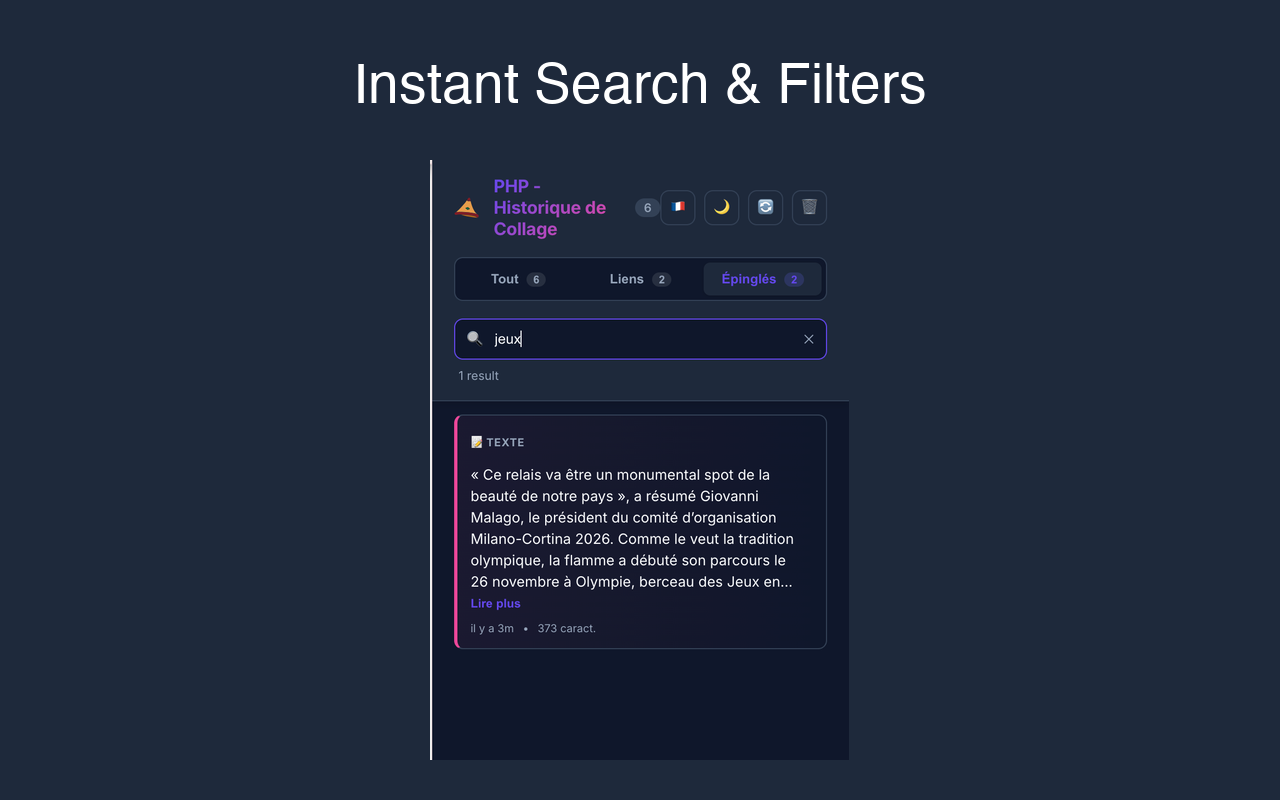
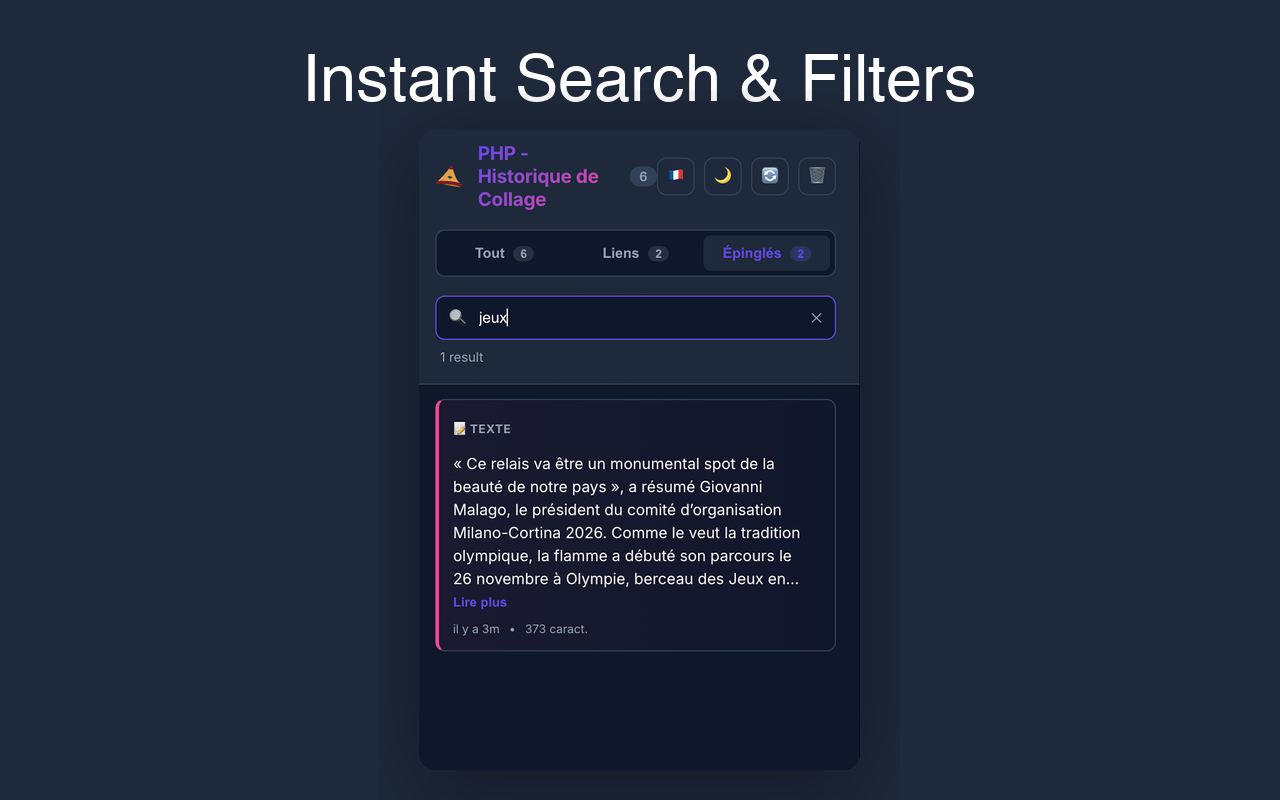
docs: regenerate search slide with user edit

diff --git a/store_assets/generate_slides.py b/store_assets/generate_slides.py
@@ -5,9 +5,9 @@ import os
 CANVAS_SIZE = (1280, 800)
 BG_COLOR = (30, 41, 59) # #1e293b
 TEXT_COLOR = (255, 255, 255)
-OFFSET_TOP_TEXT = 60
-OFFSET_TOP_IMG = 160
-IMG_Target_HEIGHT = 600
+OFFSET_TOP_TEXT = 50
+OFFSET_TOP_IMG = 130
+IMG_Target_HEIGHT = 640 # Increased from 600
 
 # Try to load a nice system font
 FONT_PATH = "/System/Library/Fonts/Helvetica.ttc"
@@ -15,7 +15,7 @@ if not os.path.exists(FONT_PATH):
     FONT_PATH = "/System/Library/Fonts/Supplemental/Arial.ttf"
 
 try:
-    font = ImageFont.truetype(FONT_PATH, 55, index=0) # Index 0 usually fits
+    font = ImageFont.truetype(FONT_PATH, 65, index=0) # Increased font size
 except:
     font = ImageFont.load_default() # Fallback
 
@@ -37,6 +37,57 @@ SLIDES = [
     }
 ]
 
+def add_corners(im, rad):
+    circle = Image.new('L', (rad * 2, rad * 2), 0)
+    draw = ImageDraw.Draw(circle)
+    draw.ellipse((0, 0, rad * 2 - 1, rad * 2 - 1), fill=255)
+    
+    alpha = Image.new('L', im.size, 255)
+    w, h = im.size
+    
+    # Handle if image already has alpha
+    if im.mode == 'RGBA':
+        alpha = im.split()[3]
+    
+    # Create mask for corners
+    mask = Image.new('L', (w, h), 255)
+    mask.paste(circle.crop((0, 0, rad, rad)), (0, 0))
+    mask.paste(circle.crop((0, rad, rad, rad * 2)), (0, h - rad))
+    mask.paste(circle.crop((rad, 0, rad * 2, rad)), (w - rad, 0))
+    mask.paste(circle.crop((rad, rad, rad * 2, rad * 2)), (w - rad, h - rad))
+    
+    # Apply mask
+    im.putalpha(mask)
+    return im
+
+def add_shadow(im, blur_radius=40, shadow_color=(0, 0, 0, 100), offset=(0, 15)):
+    from PIL import ImageFilter
+    
+    w, h = im.size
+    padding = blur_radius * 2
+    
+    # Shadow canvas
+    shadow_w = w + padding
+    shadow_h = h + padding
+    shadow = Image.new('RGBA', (shadow_w, shadow_h), (0,0,0,0))
+    draw = ImageDraw.Draw(shadow)
+    
+    # Draw shadow rect
+    shadow_rect = (
+        padding // 2 + offset[0],
+        padding // 2 + offset[1],
+        padding // 2 + offset[0] + w,
+        padding // 2 + offset[1] + h
+    )
+    
+    draw.rectangle(shadow_rect, fill=shadow_color, outline=None)
+    shadow = shadow.filter(ImageFilter.GaussianBlur(blur_radius))
+    
+    # Paste original image
+    shadow.paste(im, (padding // 2, padding // 2), im)
+    
+    return shadow
+
 def create_slide(slide_config):
     # 1. Create Canvas
     img = Image.new('RGB', CANVAS_SIZE, color=BG_COLOR)
@@ -44,7 +95,6 @@ def create_slide(slide_config):
 
     # 2. Draw Title
     title = slide_config["title"]
-    # center text
     try:
         text_bbox = draw.textbbox((0, 0), title, font=font)
         text_w = text_bbox[2] - text_bbox[0]
@@ -57,26 +107,45 @@ def create_slide(slide_config):
         draw.text((text_x, OFFSET_TOP_TEXT), title, font=font, fill=TEXT_COLOR)
 
 
-    # 3. Load and Resize Source Screenshot
+    # 3. Load and Process Source Screenshot
     try:
         source_path = os.path.join("store_assets", slide_config["source"])
-        if not os.path.exists(source_path):
-             # Try alternate name for links if needed
-             if slide_config["source"] == "links.png" and not os.path.exists(source_path):
-                 source_path = os.path.join("store_assets", "liens.png")
+        src_img = Image.open(source_path).convert("RGBA")
         
-        src_img = Image.open(source_path)
-        
-        # Calculate aspect ratio
+        # Resize
         aspect = src_img.width / src_img.height
         new_w = int(IMG_Target_HEIGHT * aspect)
         new_h = IMG_Target_HEIGHT
         
         src_img_resized = src_img.resize((new_w, new_h), Image.Resampling.LANCZOS)
         
-        # 4. Paste Centered
-        img_x = (CANVAS_SIZE[0] - new_w) // 2
-        img.paste(src_img_resized, (img_x, OFFSET_TOP_IMG))
+        # Add Corners
+        src_img_processed = add_corners(src_img_resized, rad=16)
+        
+        # Add Shadow
+        src_img_final = add_shadow(src_img_processed)
+        
+        # 4. Paste Centered (compensating for shadow padding)
+        # Shadow image is larger than original resized image by blur_radius*2
+        # We want to center the VISIBLE image (not the shadow bounds)
+        padding = 40 * 2 # blur_radius * 2
+        
+        total_w = src_img_final.width
+        # visible_w = new_w
+        
+        # x position to center the VISIBLE part
+        # center of canvas = 640
+        # center of visible image relative to shadow canvas = padding//2 + new_w//2
+        # we want (screen_x + padding//2) to start such that image is centered?
+        
+        # Easier: 
+        # The shadow image has padding on all sides.
+        # If we paste the shadow image such that its center aligns with canvas center...
+        
+        paste_x = (CANVAS_SIZE[0] - total_w) // 2
+        paste_y = OFFSET_TOP_IMG - (padding // 2) # Pull up slightly to account for shadow padding top
+        
+        img.paste(src_img_final, (paste_x, paste_y), src_img_final)
         
         # 5. Save
         out_path = os.path.join("store_assets", slide_config["name"])
